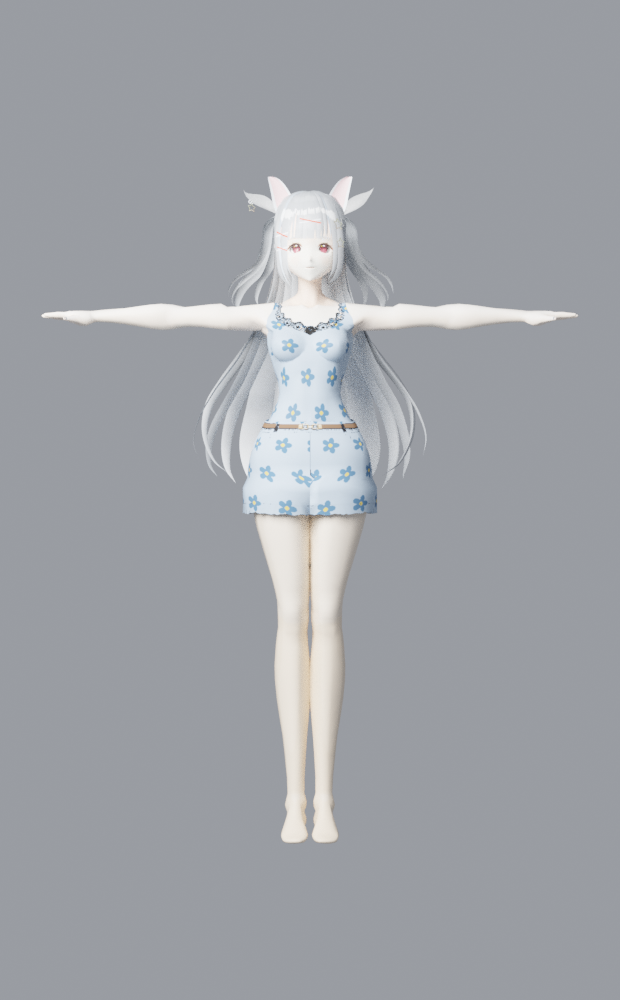
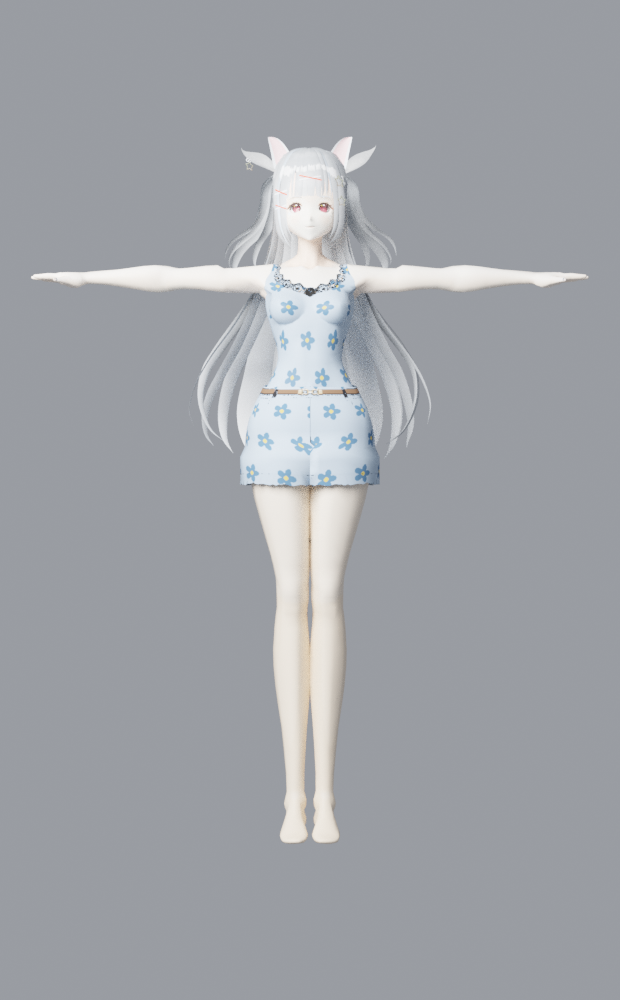
Take her to the model build: 8.5 head-counts at 1.70 m
Head scaled 0.874 and the leg bones 1.117, landing at 8.49 head-counts with
legs 62.2% of her height -- against 6.90 and 57.7% on the stock base. The shot
picks up the same target, so the composition renders at these proportions too.

Claude-Session: https://claude.ai/code/session_01KdiKTGuNFyVJk3TLR4SJ8Q

diff --git a/CharacterPrototype/tools/blender_proportions.py b/CharacterPrototype/tools/blender_proportions.py
@@ -314,7 +314,7 @@ def fit_height(root, arm, target_height):
     bpy.context.view_layer.update()
 
 
-def restyle(root, arm, target="bishoujo", head_share=0.55, widen=True):
+def restyle(root, arm, target="model", head_share=0.55, widen=True):
     before = measure(arm)
     report("before", before)
     if widen:
@@ -390,5 +390,5 @@ if __name__ == "__main__":
     _studio()
     report("stock", measure(arm))
     _render(os.path.join(OUT_DIR, "proportions_before.png"))
-    restyle(root, arm, "bishoujo")
+    restyle(root, arm, "model")
     _render(os.path.join(OUT_DIR, "proportions_after.png"))

diff --git a/CharacterPrototype/tools/blender_compose.py b/CharacterPrototype/tools/blender_compose.py
@@ -240,7 +240,7 @@ def add_braids(arm):
 # Which body-type target from the proportion chart she is built to. The stock
 # VRoid sample measures 6.90 head-counts, which is a child's proportion and
 # most of why she read younger than the reference art.
-PROPORTION_TARGET = "bishoujo"
+PROPORTION_TARGET = "model"
 
 
 def apply_proportions(root, arm, target=PROPORTION_TARGET):
